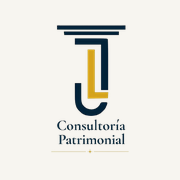
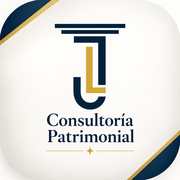
Íconos nuevos (CRM y portal), pestaña Siniestros en el CRM (teléfonos, instrucciones y archivos por aseguradora) visible en el portal, Comisiones sube en celular
Claude-Session: https://claude.ai/code/session_01SnYEPa6vXyrHTp75ApAHer

diff --git a/src/SiniestrosCRM.jsx b/src/SiniestrosCRM.jsx
@@ -1,0 +1,139 @@
+import React, { useEffect, useState } from "react";
+import { Plus, Trash2, Phone, FileText, Upload, ChevronDown } from "lucide-react";
+import { supabase } from "./supabaseClient.js";
+import { InsurerMark } from "./insurerLogos.jsx";
+import PageHeader from "./PageHeader.jsx";
+
+// Información para reportar siniestros: la captura el agente y la ve el cliente en su portal.
+const KEY = "siniestros_info";
+const BUCKET = "documentos";
+const INICIAL = [
+  { n: "AXA", t: [["", "800 911 1292"]] },
+  { n: "Qualitas", t: [["", "800 800 2880"]] },
+  { n: "Chubb", t: [["", "800 223 2001"]] },
+  { n: "Banorte", t: [["", "800 500 1500"]] },
+  { n: "Plan Seguro", t: [["", "800 277 1234"]] },
+  { n: "HDI", t: [["", "800 667 3144"]] },
+  { n: "Mapfre", t: [["", "800 062 7373"]] },
+  { n: "ANA", t: [["", "800 835 3262"]] },
+  { n: "Afirme", t: [["MTY", "81 8318 3800"], ["CDMX", "55 5140 3000"], ["Zapopan", "33 3880 7400"], ["Chihuahua", "614 432 6210"], ["Resto del país", "800 734 8761"]] },
+].map((x, i) => ({ id: `ini-${i}`, aseguradora: x.n, telefonos: x.t.map(([lugar, numero]) => ({ lugar, numero })), instrucciones: "", docs: [] }));
+
+const slug = (s) => String(s).normalize("NFD").replace(/[̀-ͯ]/g, "").replace(/[^a-zA-Z0-9._-]+/g, "-").slice(-60);
+const campo = { width: "100%", padding: "9px 11px", border: "1px solid var(--line)", borderRadius: 10, fontSize: 14, background: "#fff", color: "var(--ink)", fontFamily: "inherit" };
+const btn = { display: "inline-flex", alignItems: "center", gap: 6, border: "1px solid var(--line)", background: "var(--surface)", color: "var(--ink)", borderRadius: 10, padding: "7px 12px", fontSize: 13, fontWeight: 600, cursor: "pointer" };
+
+export default function SiniestrosCRM() {
+  const [lista, setLista] = useState(null);
+  const [abierto, setAbierto] = useState("");
+  const [guardado, setGuardado] = useState("");
+  const [err, setErr] = useState("");
+  const [subiendo, setSubiendo] = useState("");
+
+  useEffect(() => {
+    (async () => {
+      try {
+        const res = await window.storage.get(KEY);
+        setLista(res && res.value ? JSON.parse(res.value) : INICIAL);
+      } catch (e) { setLista(INICIAL); }
+    })();
+  }, []);
+
+  async function guardar(nueva) {
+    setLista(nueva);
+    try { await window.storage.set(KEY, JSON.stringify(nueva)); setGuardado("Guardado"); setTimeout(() => setGuardado(""), 1500); setErr(""); }
+    catch (e) { setErr("No se pudo guardar. Revisa tu conexión."); }
+  }
+  const cambiar = (id, fn) => guardar(lista.map((x) => (x.id === id ? fn(x) : x)));
+  const nueva = () => { const id = `s-${Date.now()}`; guardar([...lista, { id, aseguradora: "", telefonos: [{ lugar: "", numero: "" }], instrucciones: "", docs: [] }]); setAbierto(id); };
+  const quitar = (id) => { if (window.confirm("¿Eliminar esta aseguradora de la lista de siniestros?")) guardar(lista.filter((x) => x.id !== id)); };
+
+  async function subir(id, files) {
+    setErr(""); setSubiendo(id);
+    try {
+      const { data: { user } } = await supabase.auth.getUser();
+      if (!user) throw new Error("Sin sesión activa.");
+      const nuevos = [];
+      for (const f of files) {
+        const path = `siniestros/${user.id}/${Date.now()}-${nuevos.length}-${slug(f.name)}`;
+        const { error } = await supabase.storage.from(BUCKET).upload(path, f, { upsert: true });
+        if (error) throw error;
+        nuevos.push({ id: `${Date.now()}-${nuevos.length}`, name: f.name, path });
+      }
+      await cambiar(id, (x) => ({ ...x, docs: [...(x.docs || []), ...nuevos] }));
+    } catch (e) { setErr(`No se pudo subir el archivo: ${e.message || e}`); }
+    setSubiendo("");
+  }
+  async function abrirDoc(d) {
+    const { data, error } = await supabase.storage.from(BUCKET).createSignedUrl(d.path, 3600);
+    if (error || !data) { setErr("No se pudo abrir el archivo."); return; }
+    window.open(data.signedUrl, "_blank", "noopener");
+  }
+
+  if (!lista) return <p style={{ color: "var(--muted)" }}>Cargando…</p>;
+  return (
+    <div className="stagger">
+      <PageHeader eyebrow="Herramientas" title="Siniestros" subtitle="Teléfonos e instrucciones por aseguradora. Tus clientes lo ven en la sección “Reportar siniestro” de su portal." />
+      <div style={{ display: "flex", gap: 10, alignItems: "center", marginBottom: 12, flexWrap: "wrap" }}>
+        <button type="button" onClick={nueva} style={{ ...btn, background: "var(--ink)", color: "#fff", border: "none" }}><Plus size={15} /> Agregar aseguradora</button>
+        {guardado && <small style={{ color: "var(--emerald)", fontWeight: 600 }}>{guardado}</small>}
+        {err && <small style={{ color: "#B23A2E" }}>{err}</small>}
+      </div>
+      <div style={{ display: "grid", gap: 10 }}>
+        {lista.map((x) => {
+          const on = abierto === x.id;
+          return (
+            <section key={x.id} className="panel" style={{ padding: 0, overflow: "hidden" }}>
+              <button type="button" onClick={() => setAbierto(on ? "" : x.id)} style={{ width: "100%", display: "flex", alignItems: "center", gap: 12, padding: "12px 14px", background: "none", border: "none", cursor: "pointer", textAlign: "left", color: "inherit" }}>
+                <InsurerMark name={x.aseguradora || "?"} w={52} h={30} radius={8} fontSize={12} />
+                <span style={{ flex: 1, minWidth: 0 }}>
+                  <b style={{ display: "block", fontSize: 15 }}>{x.aseguradora || "Nueva aseguradora"}</b>
+                  <small style={{ color: "var(--stone)", fontSize: 12 }}>{(x.telefonos || []).filter((t) => t.numero).length} teléfono(s){x.instrucciones ? " · con instrucciones" : ""}{(x.docs || []).length ? ` · ${x.docs.length} archivo(s)` : ""}</small>
+                </span>
+                <ChevronDown size={18} color="var(--stone)" style={{ transform: on ? "rotate(180deg)" : "none", transition: "transform .25s" }} />
+              </button>
+              {on && (
+                <div style={{ padding: "0 14px 14px", display: "grid", gap: 10, animation: "rise .3s cubic-bezier(.2,.7,.2,1)" }}>
+                  <div>
+                    <label style={{ fontSize: 12, color: "var(--muted)" }}>Aseguradora</label>
+                    <input value={x.aseguradora} onChange={(e) => setLista(lista.map((y) => (y.id === x.id ? { ...y, aseguradora: e.target.value } : y)))} onBlur={() => guardar(lista)} style={campo} placeholder="Ej. GNP Seguros" />
+                  </div>
+                  <div>
+                    <label style={{ fontSize: 12, color: "var(--muted)" }}>Teléfonos de siniestros</label>
+                    {(x.telefonos || []).map((t, i) => (
+                      <div key={i} style={{ display: "grid", gridTemplateColumns: "minmax(0,1fr) minmax(0,1.2fr) auto", gap: 6, marginTop: 6 }}>
+                        <input value={t.lugar} placeholder="Zona (opcional)" onChange={(e) => setLista(lista.map((y) => (y.id === x.id ? { ...y, telefonos: y.telefonos.map((z, k) => (k === i ? { ...z, lugar: e.target.value } : z)) } : y)))} onBlur={() => guardar(lista)} style={campo} />
+                        <input value={t.numero} placeholder="800 000 0000" inputMode="tel" onChange={(e) => setLista(lista.map((y) => (y.id === x.id ? { ...y, telefonos: y.telefonos.map((z, k) => (k === i ? { ...z, numero: e.target.value } : z)) } : y)))} onBlur={() => guardar(lista)} style={campo} />
+                        <button type="button" aria-label="Quitar teléfono" onClick={() => cambiar(x.id, (y) => ({ ...y, telefonos: y.telefonos.filter((_, k) => k !== i) }))} style={{ ...btn, padding: "7px 9px" }}><Trash2 size={14} /></button>
+                      </div>
+                    ))}
+                    <button type="button" onClick={() => cambiar(x.id, (y) => ({ ...y, telefonos: [...(y.telefonos || []), { lugar: "", numero: "" }] }))} style={{ ...btn, marginTop: 8 }}><Phone size={14} /> Agregar teléfono</button>
+                  </div>
+                  <div>
+                    <label style={{ fontSize: 12, color: "var(--muted)" }}>Instrucciones para reportar (qué datos y documentos pedir, horarios, app, etc.)</label>
+                    <textarea rows={4} value={x.instrucciones || ""} onChange={(e) => setLista(lista.map((y) => (y.id === x.id ? { ...y, instrucciones: e.target.value } : y)))} onBlur={() => guardar(lista)} style={campo} placeholder="Ej. Llama al 800…, ten a la mano tu número de póliza, fotos del daño y licencia vigente." />
+                  </div>
+                  <div>
+                    <label style={{ fontSize: 12, color: "var(--muted)" }}>Archivos (PDF o imagen: guías, formatos, cartas de asistencia)</label>
+                    {(x.docs || []).map((d) => (
+                      <div key={d.id} style={{ display: "flex", alignItems: "center", gap: 8, padding: "6px 0", borderBottom: "1px solid var(--line)" }}>
+                        <FileText size={15} color="var(--gold-text)" />
+                        <button type="button" onClick={() => abrirDoc(d)} className="link-btn" style={{ flex: 1, textAlign: "left", overflow: "hidden", textOverflow: "ellipsis", whiteSpace: "nowrap" }}>{d.name}</button>
+                        <button type="button" aria-label="Quitar archivo" onClick={() => cambiar(x.id, (y) => ({ ...y, docs: y.docs.filter((z) => z.id !== d.id) }))} style={{ ...btn, padding: "5px 8px" }}><Trash2 size={13} /></button>
+                      </div>
+                    ))}
+                    <label style={{ ...btn, marginTop: 8, opacity: subiendo === x.id ? 0.6 : 1 }}>
+                      <Upload size={14} /> {subiendo === x.id ? "Subiendo…" : "Subir archivo"}
+                      <input type="file" accept="application/pdf,image/*" multiple style={{ display: "none" }} onChange={(e) => { const f = Array.from(e.target.files || []); e.target.value = ""; if (f.length) subir(x.id, f); }} />
+                    </label>
+                  </div>
+                  <button type="button" onClick={() => quitar(x.id)} style={{ ...btn, color: "#B23A2E", justifySelf: "start" }}><Trash2 size={14} /> Eliminar aseguradora</button>
+                </div>
+              )}
+            </section>
+          );
+        })}
+      </div>
+    </div>
+  );
+}

diff --git a/src/App.jsx b/src/App.jsx
@@ -1,5 +1,5 @@
 import React, { useState, useEffect, useMemo } from "react";
-import { Plus, Phone, Trash2, X, Check, Bell, ChevronDown, Menu, Download, Upload, LogOut, FileText, Camera, Heart, Users, LayoutDashboard, UserPlus, Calculator, LayoutGrid, CalendarDays, GraduationCap, Award, CreditCard, CalendarClock, Pencil, Search, Stethoscope } from "lucide-react";
+import { Plus, Phone, Trash2, X, Check, Bell, ChevronDown, Menu, Download, Upload, LogOut, FileText, Camera, Heart, Users, LayoutDashboard, UserPlus, Calculator, LayoutGrid, CalendarDays, GraduationCap, Award, CreditCard, CalendarClock, Pencil, Search, Stethoscope, ShieldAlert } from "lucide-react";
 import * as XLSX from "xlsx";
 import { supabase } from "./supabaseClient.js";
 import { JL_LOGO } from "./brandAssets.js";
@@ -10,6 +10,7 @@ import PortalClientes from "./PortalClientes.jsx";
 import PageHeader from "./PageHeader.jsx";
 import ImportarCartera from "./ImportarCartera.jsx";
 import { InsurerMark, insurerKey } from "./insurerLogos.jsx";
+import SiniestrosCRM from "./SiniestrosCRM.jsx";
 import TarjetaDigital, { reducirImagen, correoCompleto } from "./TarjetaMC.jsx";
 
 const DOCS_BUCKET = "documentos";
@@ -29,6 +30,7 @@ const NAV_ITEMS = [
   { id: "comisiones", label: "Comisiones", icon: Calculator },
   { id: "factura", label: "Calculadora de factura", icon: FileText },
   { id: "deducible", label: "Deducible y coaseguro", icon: Calculator },
+  { id: "siniestros", label: "Siniestros", icon: ShieldAlert },
   { id: "multicotizador", label: "Multicotizador", icon: LayoutGrid },
   { id: "directorios", label: "Directorios médicos", icon: Stethoscope },
   { id: "examen", label: "Prepárate para tu examen", icon: GraduationCap },
@@ -161,7 +163,7 @@ const MULTICOTIZADOR_MENU = [
 
 const NAV_GROUPS = [
   { title: "Trabajo", ids: ["planificador", "recordatorios", "dashboard", "clientes", "prospectos"] },
-  { title: "Herramientas", ids: ["condiciones", "tarjeta", "comisiones", "factura", "deducible", "multicotizador", "directorios"] },
+  { title: "Herramientas", ids: ["condiciones", "tarjeta", "comisiones", "factura", "deducible", "siniestros", "multicotizador", "directorios"] },
   { title: "Formación", ids: ["examen", "cedulaA"] },
 ];
 
@@ -2352,7 +2354,7 @@ function Dashboard({ clients, prospectos, activities, metas, porcentajes, remind
       </div>
 
       <div className="dash-col stagger">
-        <section className="panel lift" style={{ padding: "18px 20px 20px" }}>
+        <section className="panel lift dash-com" style={{ padding: "18px 20px 20px" }}>
           <div style={{ fontSize: 11, fontWeight: 700, letterSpacing: ".12em", textTransform: "uppercase", color: "var(--gold-text)" }}>
             Comisiones de {MESES_LARGO[mesNum - 1].toLowerCase()}
           </div>
@@ -4254,6 +4256,8 @@ function migrateClient(c) {
         )}
 
         {tab === "factura" && <CalculadoraFactura />}
+
+        {tab === "siniestros" && <SiniestrosCRM />}
 
         {tab === "deducible" && (
           <CalculadoraDeducible

diff --git a/src/Portal.jsx b/src/Portal.jsx
@@ -125,7 +125,7 @@ function InstalarModal({ onClose, instalarNativo }) {
       <div className="panel" onClick={(e) => e.stopPropagation()} style={{ width: "100%", maxWidth: 440, padding: 20, animation: "rise .4s cubic-bezier(.2,.7,.2,1)", maxHeight: "92dvh", overflowY: "auto" }}>
         <div style={{ display: "flex", justifyContent: "space-between", alignItems: "flex-start", gap: 10 }}>
           <div style={{ display: "flex", gap: 12, alignItems: "center" }}>
-            <img src="/jl-icon-192.png" alt="" width={44} height={44} style={{ borderRadius: 11 }} />
+            <img src="/portal-icon-192.png" alt="" width={44} height={44} style={{ borderRadius: 11 }} />
             <div>
               <h3 className="serif" style={{ fontSize: 18, color: "var(--ink)", lineHeight: 1.2 }}>Ten tu portal a un toque</h3>
               <p style={{ fontSize: 12, color: "var(--muted)", marginTop: 2 }}>Agrégalo a tu pantalla de inicio y ya no tendrás que buscar el enlace.</p>
@@ -651,7 +651,10 @@ const TEL_SINIESTROS = [
 function TelefonosSiniestros({ data }) {
   const [todas, setTodas] = useState(false);
   const mias = new Set((data.polizas || []).map((p) => insurerKey(p.aseguradora)).filter(Boolean));
-  const ordenadas = [...TEL_SINIESTROS].sort((a, b) => (mias.has(insurerKey(b.nombre)) ? 1 : 0) - (mias.has(insurerKey(a.nombre)) ? 1 : 0));
+  const fuente = Array.isArray(data.siniestros) && data.siniestros.length
+    ? data.siniestros.map((x) => ({ nombre: x.aseguradora, tels: (x.telefonos || []).map((t) => [t.lugar || "", t.numero]), instrucciones: x.instrucciones || "", docs: x.docs || [] }))
+    : TEL_SINIESTROS;
+  const ordenadas = [...fuente].sort((a, b) => (mias.has(insurerKey(b.nombre)) ? 1 : 0) - (mias.has(insurerKey(a.nombre)) ? 1 : 0));
   const hayMias = ordenadas.some((a) => mias.has(insurerKey(a.nombre)));
   const visibles = todas || !hayMias ? ordenadas : ordenadas.filter((a) => mias.has(insurerKey(a.nombre)));
   const tel = (t) => `tel:${t.replace(/\D/g, "")}`;
@@ -672,6 +675,8 @@ function TelefonosSiniestros({ data }) {
                   {!lugar && <Phone size={16} color="var(--emerald)" />}
                 </a>
               ))}
+              {a.instrucciones && <p style={{ fontSize: 12.5, color: "var(--ink)", lineHeight: 1.45, margin: "4px 0 0", whiteSpace: "pre-line" }}>{a.instrucciones}</p>}
+              {(a.docs || []).map((d) => <a key={d.id} href={d.url} target="_blank" rel="noreferrer" style={{ display: "flex", alignItems: "center", gap: 6, fontSize: 12.5, fontWeight: 600, color: "var(--gold-text)", textDecoration: "none" }}><FileText size={14} /> {d.name}</a>)}
             </div>
           </div>
         ))}

diff --git a/supabase/functions/portal-cliente/index.ts b/supabase/functions/portal-cliente/index.ts
@@ -48,7 +48,19 @@ Deno.serve(async (req: Request) => {
     // Datos de contacto del agente (tarjeta pública)
     const { data: card } = await admin.from("public_cards").select("nombre, correo, telefono, whatsapp, foto_url").eq("agent_id", AGENT_ID).maybeSingle();
     const agente = { id: AGENT_ID, nombre: card?.nombre || "", correo: card?.correo || "", whatsapp: card?.whatsapp || card?.telefono || "", telefono: card?.telefono || card?.whatsapp || "", fotoUrl: card?.foto_url || "" };
-    return resp({ cliente: { nombre: c.nombre, apellido: c.apellido || "" }, polizas, agente });
+    // Información de siniestros capturada por el agente (teléfonos, instrucciones, archivos)
+    const { data: sin } = await admin.from("app_data").select("value").eq("agent_id", AGENT_ID).eq("key", "siniestros_info").maybeSingle();
+    const siniestros = [];
+    for (const x of Array.isArray(sin?.value) ? sin!.value : []) {
+      const docs = [];
+      for (const d of x?.docs || []) {
+        if (!d?.path) continue;
+        const { data: s2 } = await admin.storage.from(BUCKET).createSignedUrl(d.path, 3600);
+        if (s2?.signedUrl) docs.push({ id: d.id, name: d.name, url: s2.signedUrl });
+      }
+      siniestros.push({ id: x.id, aseguradora: x.aseguradora || "", telefonos: (x.telefonos || []).filter((t: any) => t?.numero), instrucciones: x.instrucciones || "", docs });
+    }
+    return resp({ cliente: { nombre: c.nombre, apellido: c.apellido || "" }, polizas, agente, siniestros });
   } catch (e) {
     return resp({ error: "error", detalle: String(e) }, 500);
   }

diff --git a/src/index.css b/src/index.css
@@ -148,6 +148,13 @@ input, select, textarea { font-family: inherit; transition: border-color .18s ea
 .dash-grid { display: grid; gap: 20px; align-items: start; }
 .dash-col { display: grid; gap: 20px; min-width: 0; align-content: start; }
 @media (min-width: 1000px) { .dash-grid { grid-template-columns: minmax(0, 1.45fr) minmax(0, 1fr); } }
+/* Celular/tableta: una sola columna, con "Comisiones del mes" justo después de "Para hoy" */
+@media (max-width: 999px) {
+  .dash-grid > .dash-col { display: contents; }
+  .dash-grid > .dash-col > * { order: 5; min-width: 0; }
+  .dash-grid > .dash-col:first-child > *:first-child { order: 1; }
+  .dash-grid > .dash-col > .dash-com { order: 2; }
+}
 
 .stagger > * { animation: rise .55s cubic-bezier(.2,.7,.2,1) backwards; }
 .stagger > *:nth-child(2) { animation-delay: 70ms; }

diff --git a/portal.html b/portal.html
@@ -2,8 +2,8 @@
 <html lang="es">
   <head>
     <meta charset="UTF-8" />
-    <link rel="icon" type="image/png" href="/jl-icon-192.png" />
-    <link rel="apple-touch-icon" href="/jl-apple-touch.png" />
+    <link rel="icon" type="image/png" href="/portal-icon-192.png" />
+    <link rel="apple-touch-icon" href="/portal-apple-touch.png" />
     <link rel="manifest" href="/portal-manifest.json" />
     <meta name="viewport" content="width=device-width, initial-scale=1.0, viewport-fit=cover" />
     <meta name="theme-color" content="#0B2A44" />
